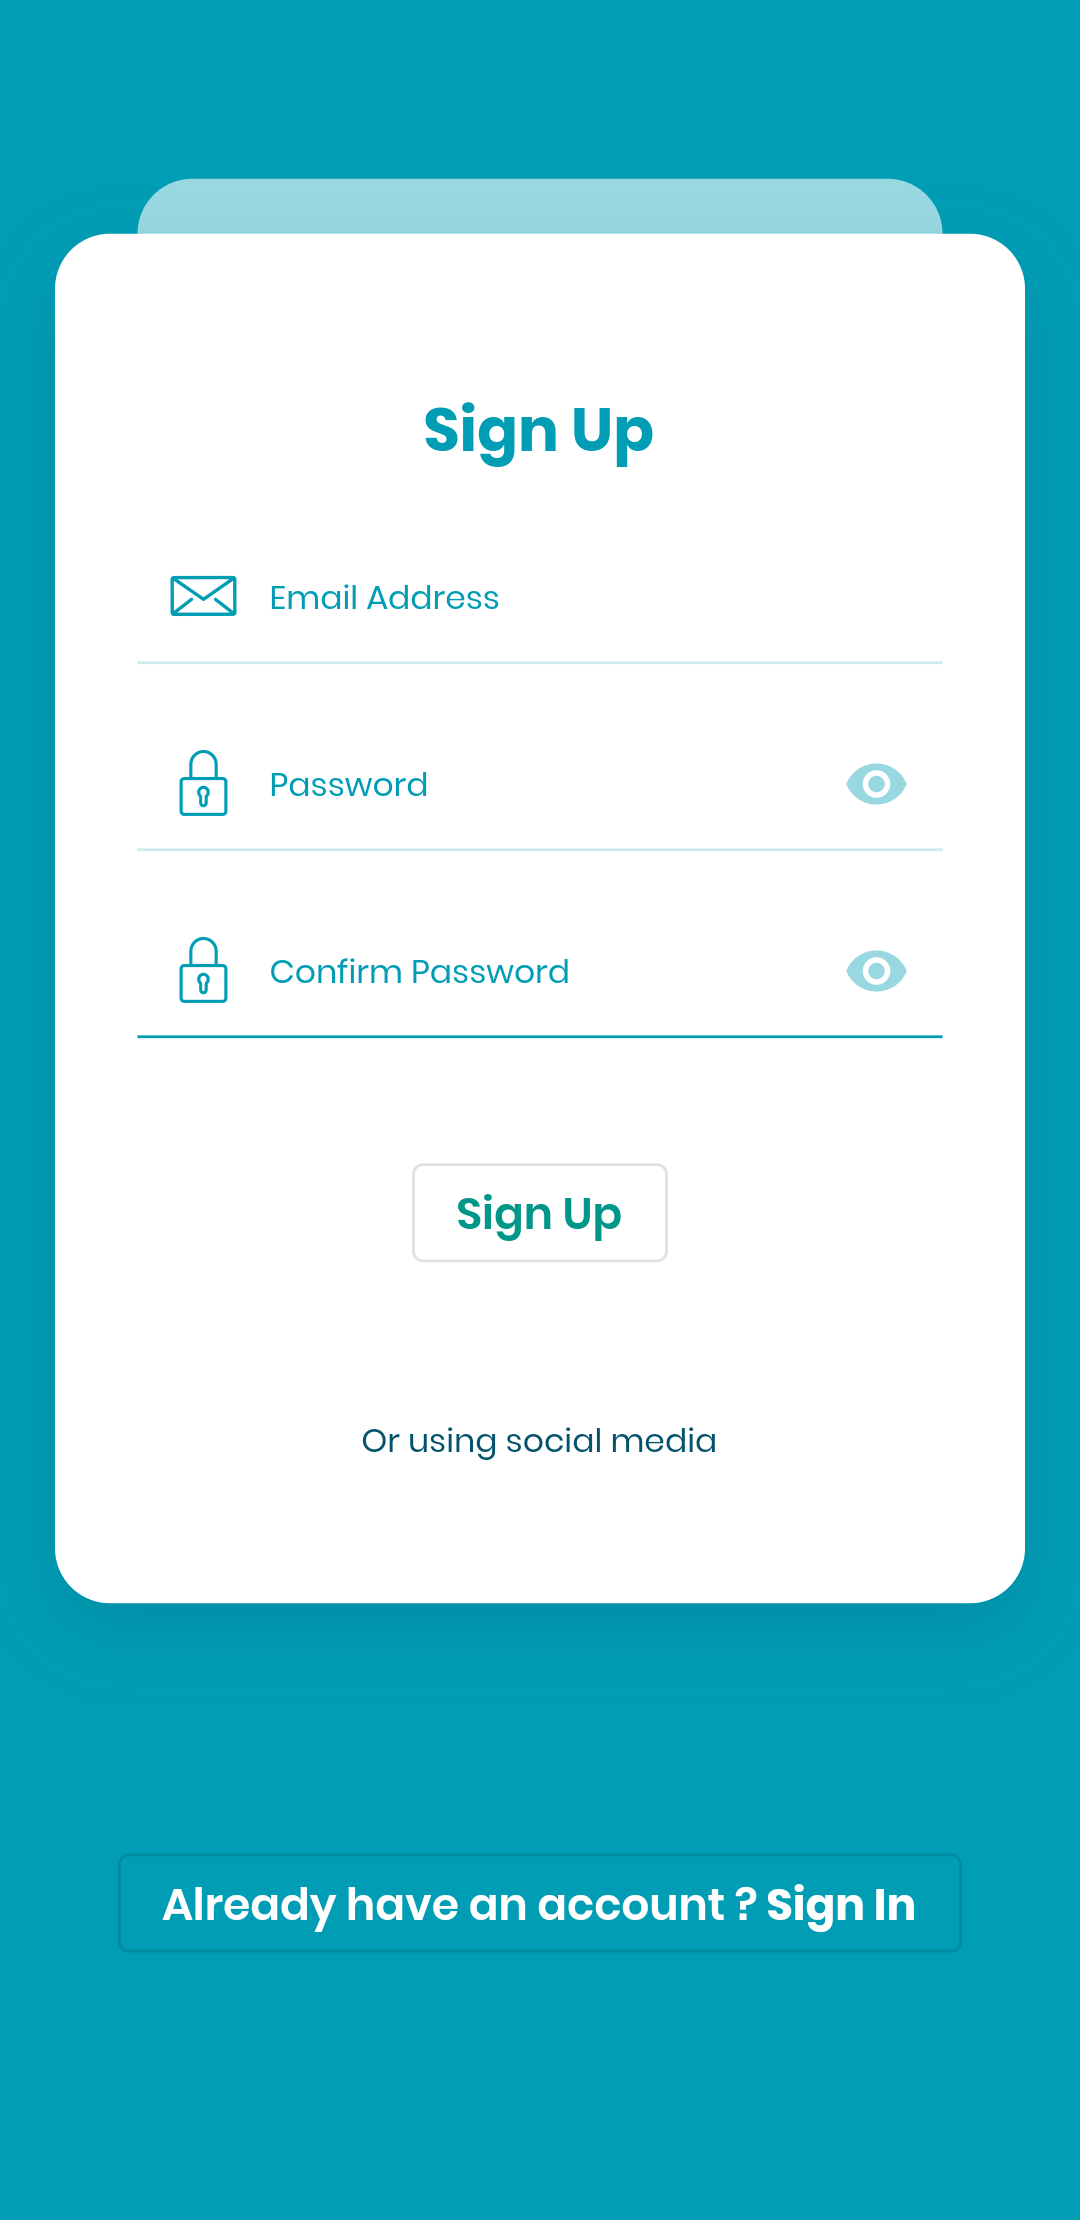
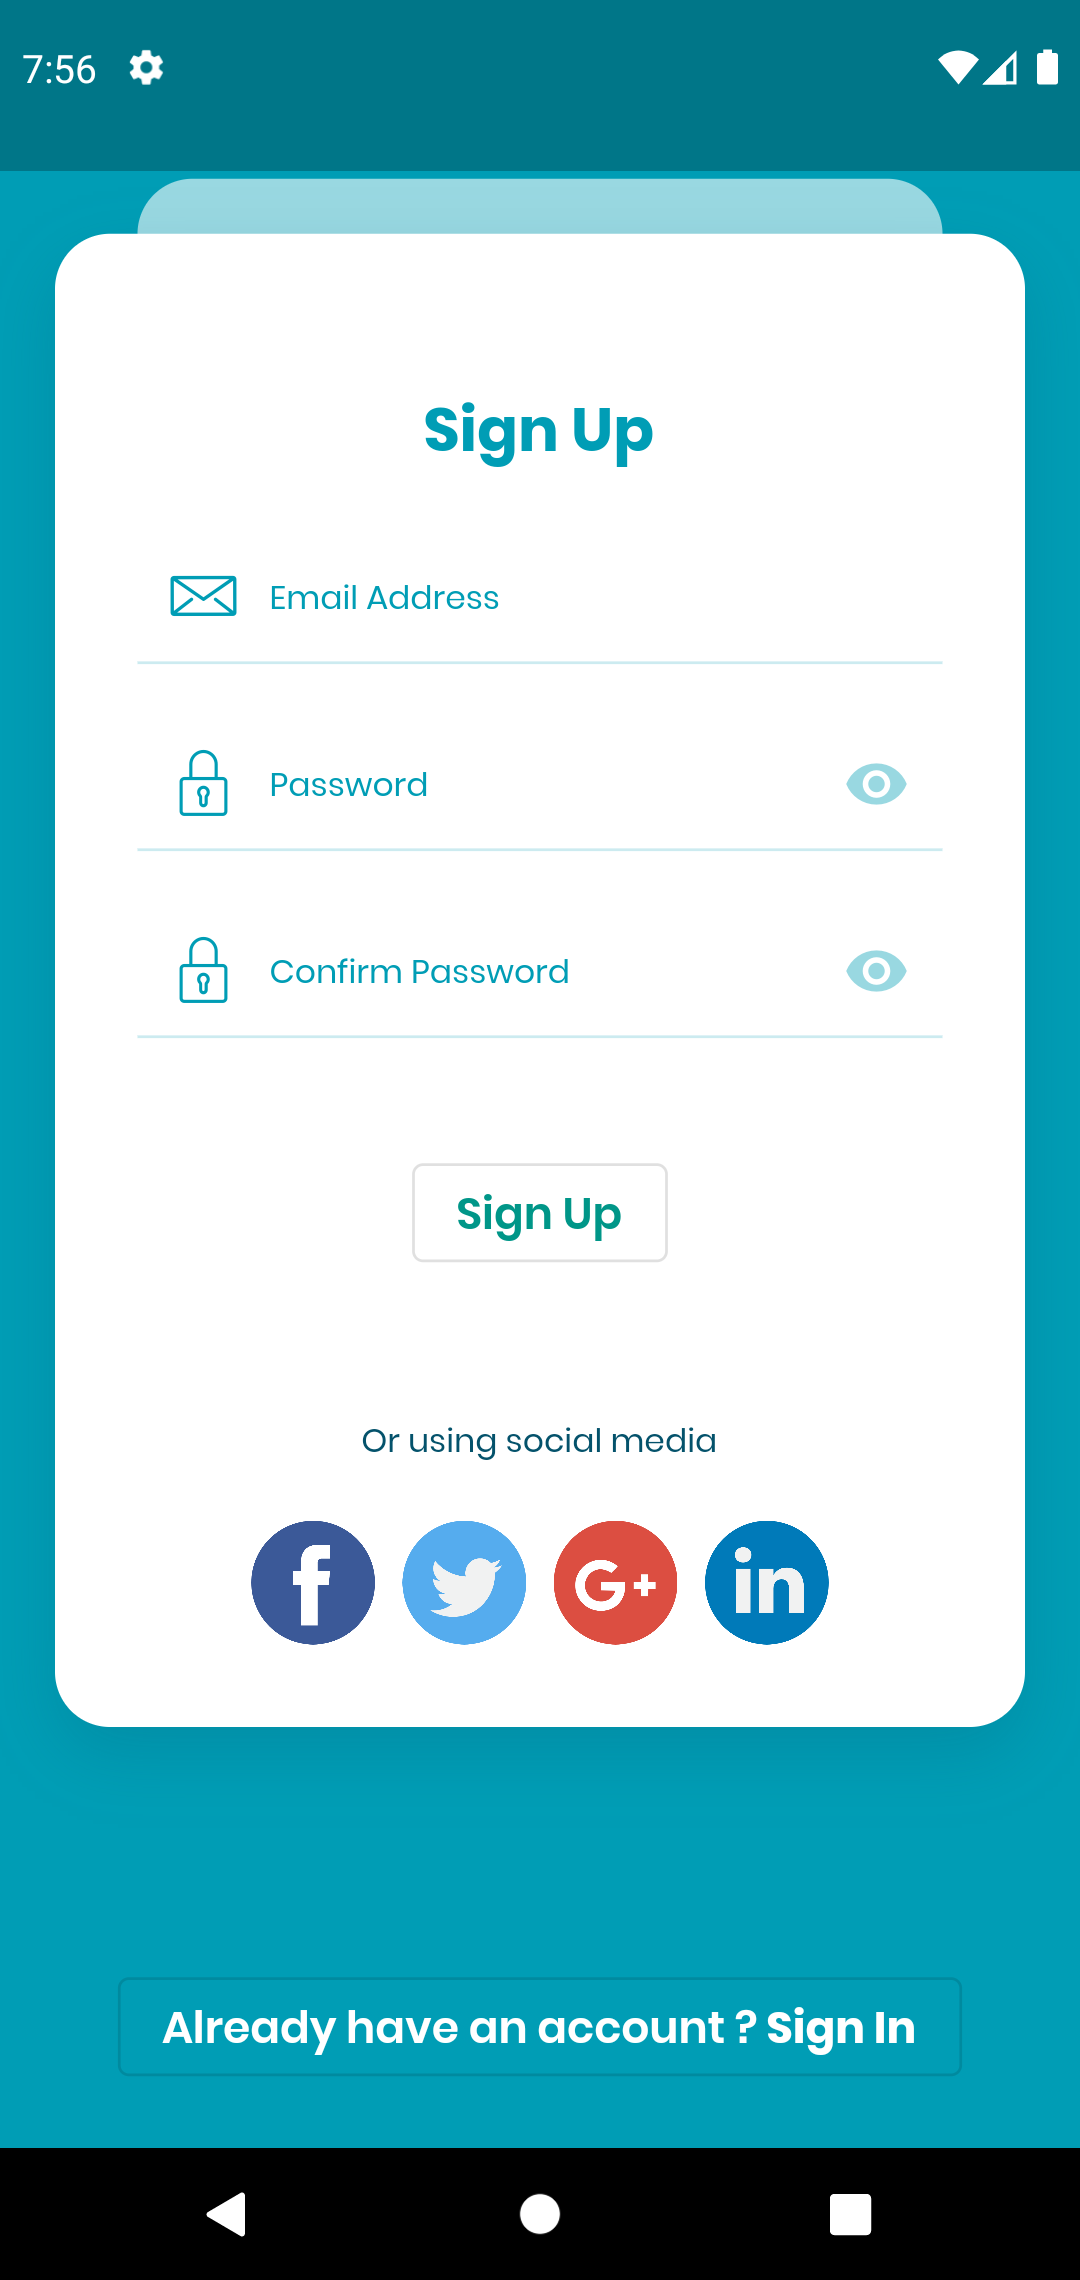
updateReadme

diff --git a/lib/src/widget/socialmedia.dart b/lib/src/widget/socialmedia.dart
@@ -1,0 +1,52 @@
+import 'package:flutter/material.dart';
+
+class SocialMediaWidget extends StatelessWidget {
+  const SocialMediaWidget({Key? key}) : super(key: key);
+
+  @override
+  Widget build(BuildContext context) {
+    return Row(
+      mainAxisSize: MainAxisSize.min,
+      children: [
+        SizedBox(
+          width: 45.0,
+          height: 45.0,
+          child: InkWell(
+            onTap: () {},
+            child: Image.asset(
+              'img/facebook.png',
+            ),
+          ),
+        ),
+        SizedBox(width: 10),
+        SizedBox(
+          width: 45,
+          height: 45,
+          child: InkWell(
+            onTap: () {},
+            child: Image.asset('img/twitter.png'),
+          ),
+        ),
+        SizedBox(width: 10),
+        SizedBox(
+          width: 45,
+          height: 45,
+          child: InkWell(
+            onTap: () {},
+            child: Image.asset('img/google-plus.png'),
+          ),
+        ),
+        SizedBox(width: 10),
+        SizedBox(
+          width: 45,
+          height: 45,
+          child: InkWell(
+            onTap: () {},
+            child: Image.asset('img/linkedin.png'),
+          ),
+        )
+
+      ],
+    );
+  }
+}
